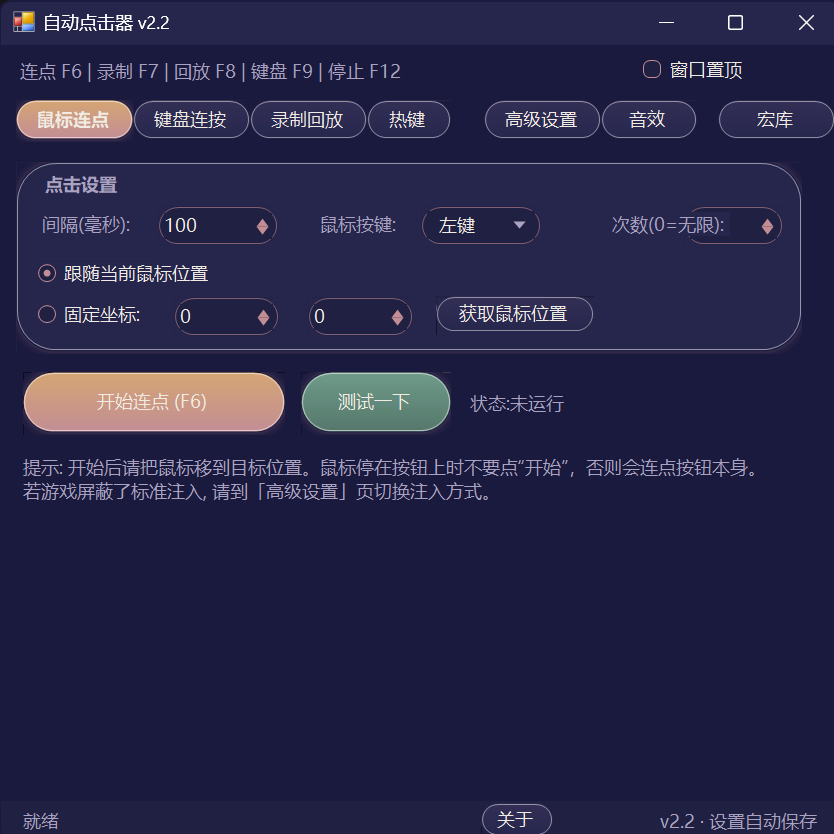
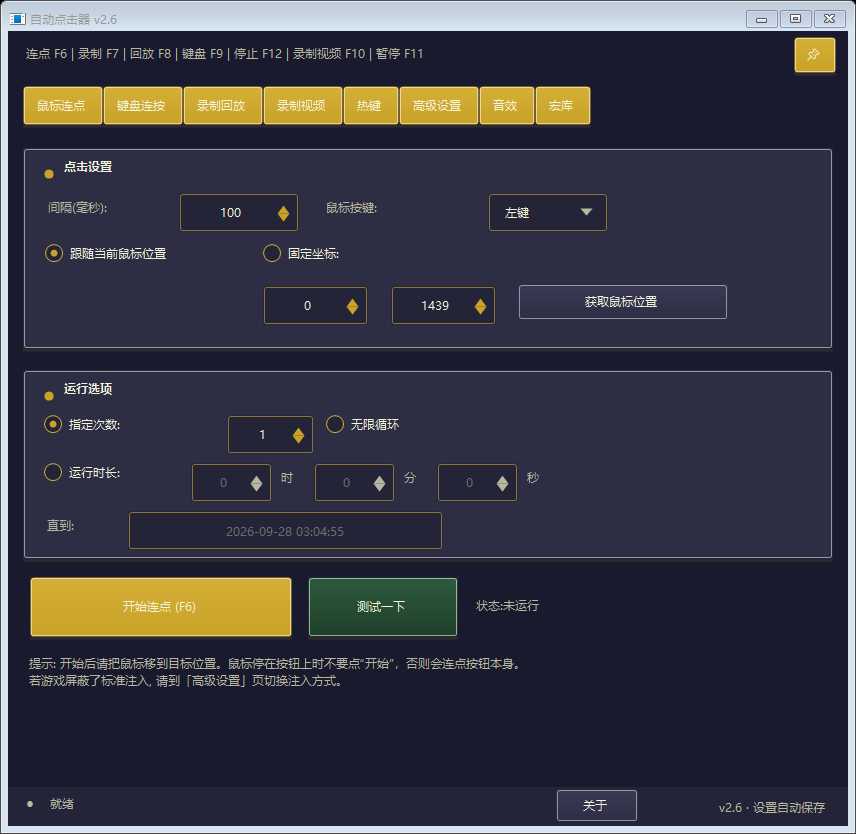
docs: README(中/英) 补充录屏功能与 8 个默认热键; 预览截图更新到 v2.6 (150% 缩放, ArtDeco 主题)
- README.md / README.en.md: 功能特性新增「录制视频(录屏)」、热键数量 5→8、默认热键表补 F10/F11/Ctrl+F12、项目结构补 ScreenRecorder/MediaFoundation/RecordingHud/CountdownForm、FAQ 补录屏卡顿
- docs/screenshots: 用 v2.6 界面重新生成中英预览图(8 个标签页 + 新布局, 150% 缩放与旧图同尺寸)
- 均为 v2.6 发版准备

diff --git a/README.en.md b/README.en.md
@@ -6,7 +6,7 @@
 
 [![License: MIT](https://img.shields.io/badge/License-MIT-blue.svg)](LICENSE)
 
-A Windows automation tool for game farming / auto-clicking scenarios. Features a mouse auto-clicker, key spammer, macro record & replay, global hotkeys and key sound effects; a built-in humanization engine and three input injection methods (including driver-level), designed specifically for scenarios where scripts get detected by games.
+A Windows automation tool for game farming / auto-clicking scenarios. Features a mouse auto-clicker, key spammer, macro record & replay, **screen recording (MP4 export)**, global hotkeys and key sound effects; a built-in humanization engine and three input injection methods (including driver-level), designed specifically for scenarios where scripts get detected by games.
 
 ## 📸 Screenshot
 
@@ -17,8 +17,9 @@ A Windows automation tool for game farming / auto-clicking scenarios. Features a
 - 🖱 **Mouse Clicking** — auto-click at fixed intervals; follow the cursor or lock to coordinates
 - ⌨ **Keyboard Spam** — timed tap / hold modes; the "Capture Key" button can capture a single key or **multiple keys pressed together** (e.g. `Shift+A`)
 - ⏺ **Record & Play** — records real mouse/keyboard actions via global low-level hooks, auto-merges redundant actions (consecutive moves merged into one "move to end point", short presses merged into clicks/key taps); editable, saveable, replayable in loops at variable speed
+- 🎬 **Screen recording** — record a chosen monitor or a chosen window to **MP4 (H.264)**: pick resolution (native/720p/1080p/1440p) and frame rate (15/24/30/60), choose the output folder; a 3-second countdown precedes capture, and while recording a **draggable floating bar** (top-right) shows the elapsed time with pause/resume and stop-and-save buttons — the bar is never captured into the video. Optional: hide this window while recording, include the mouse cursor. **Zero dependencies**: GDI for capture, the built-in Media Foundation encoder for H.264 (hardware encoder preferred) — no bundled ffmpeg
 - ⏱ **Run limits** — one run-limit control at the same position on all three pages (clicker / spammer / playback): **repeat N times / infinite loop / run duration (h·min·s) or until a specified time**; duration and deadline stay bidirectionally synced (setting 10 minutes shows local time + 10 min)
-- 🔥 **Global hotkeys** — all 5 function toggles fully customizable, any key combination: multi-key combos (e.g. `Ctrl+Q+W`), mouse side buttons, media keys
+- 🔥 **Global hotkeys** — all 8 function toggles fully customizable, any key combination: multi-key combos (e.g. `Ctrl+Q+W`), mouse side buttons, media keys
 - 🔊 **Key sound effects** — bind any single key / combo to a wav/mp3 sound; plays on press; a new key cuts off the currently playing sound (cut-off playback)
 - 🎭 **Humanization engine** — Gaussian-distributed intervals, landing-point jitter & drift, randomized press duration, bezier movement trajectories to reduce the "scripted" feel
 - 🛡 **Three injection methods** — SendInput / SendMessage / Interception (driver-level), for different detection schemes
@@ -48,7 +49,10 @@ See [使用说明.txt](使用说明.txt) (user manual, Chinese) for detailed ins
 | Recording toggle | F7 |
 | Playback toggle | F8 |
 | Keyboard toggle | F9 |
-| Stop all | F12 |
+| Stop all (also stops and saves the recording) | F12 |
+| Video recording toggle (press once to start, again to stop and save) | F10 |
+| Pause / resume recording | F11 |
+| Stop and save the recording (recording only) | Ctrl+F12 |
 
 All hotkeys can be changed to any key combination on the "Hotkeys" page; changes are saved immediately and take effect on the next launch.
 
@@ -96,7 +100,9 @@ On the "Sound FX" page you can bind any single key or combo to a wav/mp3 sound f
 
 | Path | Description |
 |---|---|
-| [src/MainForm.cs](src/MainForm.cs) | Main UI: 7 tab pages, config load/save, DPI sync, DWM border theming |
+| [src/MainForm.cs](src/MainForm.cs) | Main UI: 8 tab pages, config load/save, DPI sync, DWM border theming |
+| [src/ScreenRecorder.cs](src/ScreenRecorder.cs) / [src/MediaFoundation.cs](src/MediaFoundation.cs) | Screen capture engine (GDI + frame pacing) / MP4 encoding (Media Foundation, zero deps) |
+| [src/RecordingHud.cs](src/RecordingHud.cs) / [src/CountdownForm.cs](src/CountdownForm.cs) | Recording control bar / 3-second countdown overlay |
 | [src/InputSimulator.cs](src/InputSimulator.cs) | Input injection hub: SendInput / SendMessage / Interception routing |
 | [src/Humanizer.cs](src/Humanizer.cs) | Humanization engine |
 | [src/HotkeyManager.cs](src/HotkeyManager.cs) | Global hotkey engine (low-level hooks) |
@@ -115,6 +121,7 @@ On the "Sound FX" page you can bind any single key or combo to a wav/mp3 sound f
 - **Antivirus false positives / deleted files**: automation & injection tools are prone to heuristic false positives (Kaspersky previously deleted it). Add the program folder to your antivirus exclusions.
 - **Hotkey does nothing**: it may be occupied by another program — pick a different combo.
 - **Game still detects the script**: try in the order of the "Advanced" page: keep humanization on → switch to SendMessage injection → install the Interception driver.
+- **Recording stutters or the file is huge**: drop the resolution/frame rate one step (1440p60 needs a fast machine); if a game window uses hardware acceleration and cannot be captured directly, the recorder falls back to screen capture automatically.
 - **Reset to defaults**: delete `config.json` in the program folder.
 
 ## ⚠ Disclaimer

diff --git a/README.md b/README.md
@@ -6,7 +6,7 @@
 
 [![License: MIT](https://img.shields.io/badge/License-MIT-blue.svg)](LICENSE)
 
-面向游戏挂机 / 自动点击场景的 Windows 自动化工具。支持鼠标连点、键盘连按、宏录制回放、全局热键、按键音效；内置拟人化引擎与三种输入注入方式（含驱动级），针对"被游戏检测为脚本"的场景做了专门的对抗设计。
+面向游戏挂机 / 自动点击场景的 Windows 自动化工具。支持鼠标连点、键盘连按、宏录制回放、**屏幕录制（导出 MP4）**、全局热键、按键音效；内置拟人化引擎与三种输入注入方式（含驱动级），针对"被游戏检测为脚本"的场景做了专门的对抗设计。
 
 ## 📸 界面预览
 
@@ -17,8 +17,9 @@
 - 🖱 **鼠标连点** — 固定间隔自动点击，可跟随光标或锁定坐标
 - ⌨ **键盘连按** — 定时点按 / 按住两种模式；「点击按键」可捕获单个键或**多个同时按下的键**（如 `Shift+A`）
 - ⏺ **录制回放** — 全局低级钩子录制真实鼠标/键盘操作，自动合并冗余动作（连续移动合并为"移动到终点"、短按合并为单击/按键），可编辑、保存、按倍速循环回放
+- 🎬 **录制视频（录屏）** — 把指定屏幕或指定窗口录成 **MP4 (H.264)**：分辨率（原始/720p/1080p/1440p）、帧率（15/24/30/60）可选，保存目录可改；开始前 3 秒倒计时，录制中右上角是**可拖动的悬浮小条**（已录时长 + 暂停/继续 + 停止并保存，且不会被录进画面），还可选录制时隐藏本窗口、录入鼠标指针。**零外部依赖**：抓屏用 GDI，编码用系统自带的 Media Foundation（优先硬件编码器），不打包 ffmpeg
 - ⏱ **运行限制三选项** — 连点 / 连按 / 回放 三个页面同一位置的运行限制控件：**指定次数 / 无限循环 / 运行时长(时·分·秒) 或 运行到指定时刻**；「时长」与「截止时刻」双向同步（设 10 分钟即显示本地时间 +10 分钟）
-- 🔥 **全局热键** — 5 个功能开关全部可自定义，支持任意组合键：多键组合（如 `Ctrl+Q+W`）、鼠标侧键、媒体键
+- 🔥 **全局热键** — 8 个功能开关全部可自定义，支持任意组合键：多键组合（如 `Ctrl+Q+W`）、鼠标侧键、媒体键
 - 🔊 **按键音效** — 任意单键/组合键绑定 wav/mp3 音效，按下即播，新键覆盖旧音效（覆盖式播放）；**支持命名场景**（每个场景 = `Sounds` 下的一个子文件夹 + 独立的一套绑定，一键整体切换）
 - 🎭 **拟人化引擎** — 高斯分布间隔、落点抖动漂移、随机按键时长、贝塞尔移动轨迹，降低"脚本感"
 - 🛡 **三种注入方式** — SendInput / SendMessage / Interception 驱动级，应对不同的检测手段
@@ -48,7 +49,10 @@ src\build.bat
 | 录制开关 | F7 |
 | 回放开关 | F8 |
 | 键盘连按开关 | F9 |
-| 全部停止 | F12 |
+| 全部停止（录屏时也会停止录制并保存） | F12 |
+| 录制视频开关（按一下开始，录制中再按 = 停止并保存） | F10 |
+| 暂停 / 继续录制 | F11 |
+| 停止录制并保存（只停录屏，不动其它功能） | Ctrl+F12 |
 
 所有热键均可在「热键」页改为任意组合键，改完立即保存，下次启动生效。
 
@@ -96,7 +100,9 @@ Alt+鼠标X1         鼠标侧键
 
 | 目录/文件 | 说明 |
 |---|---|
-| [src/MainForm.cs](src/MainForm.cs) | 主界面：7 个标签页、配置加载/保存、DPI 同步、DWM 边框主题 |
+| [src/MainForm.cs](src/MainForm.cs) | 主界面：8 个标签页、配置加载/保存、DPI 同步、DWM 边框主题 |
+| [src/ScreenRecorder.cs](src/ScreenRecorder.cs) / [src/MediaFoundation.cs](src/MediaFoundation.cs) | 录屏引擎（GDI 抓屏 + 帧率节拍） / MP4 编码（Media Foundation，零依赖） |
+| [src/RecordingHud.cs](src/RecordingHud.cs) / [src/CountdownForm.cs](src/CountdownForm.cs) | 录制悬浮小条 / 3 秒倒计时浮层 |
 | [src/InputSimulator.cs](src/InputSimulator.cs) | 输入注入中枢：SendInput / SendMessage / Interception 路由 |
 | [src/Humanizer.cs](src/Humanizer.cs) | 拟人化引擎 |
 | [src/HotkeyManager.cs](src/HotkeyManager.cs) | 全局热键引擎（低级钩子） |
@@ -115,6 +121,7 @@ Alt+鼠标X1         鼠标侧键
 - **杀毒软件误报 / 删文件**：自动化注入类工具容易被启发式误报（曾触发卡巴斯基误删），把程序目录加入杀毒软件排除项即可。
 - **热键按了没反应**：可能被其他软件占用，换一个组合键。
 - **游戏仍能识别脚本**：按「高级设置」页顺序尝试：保持拟人化开启 → 换 SendMessage 注入 → 装 Interception 驱动。
+- **录屏卡顿或文件太大**：把分辨率/帧率降一档（1440p60 对机器要求较高）；录制窗口时若游戏用硬件加速导致抓不到画面，程序会自动退回屏幕抓取。
 - **想恢复默认设置**：删除程序目录下的 `config.json`。
 
 ## ⚠ 免责声明
